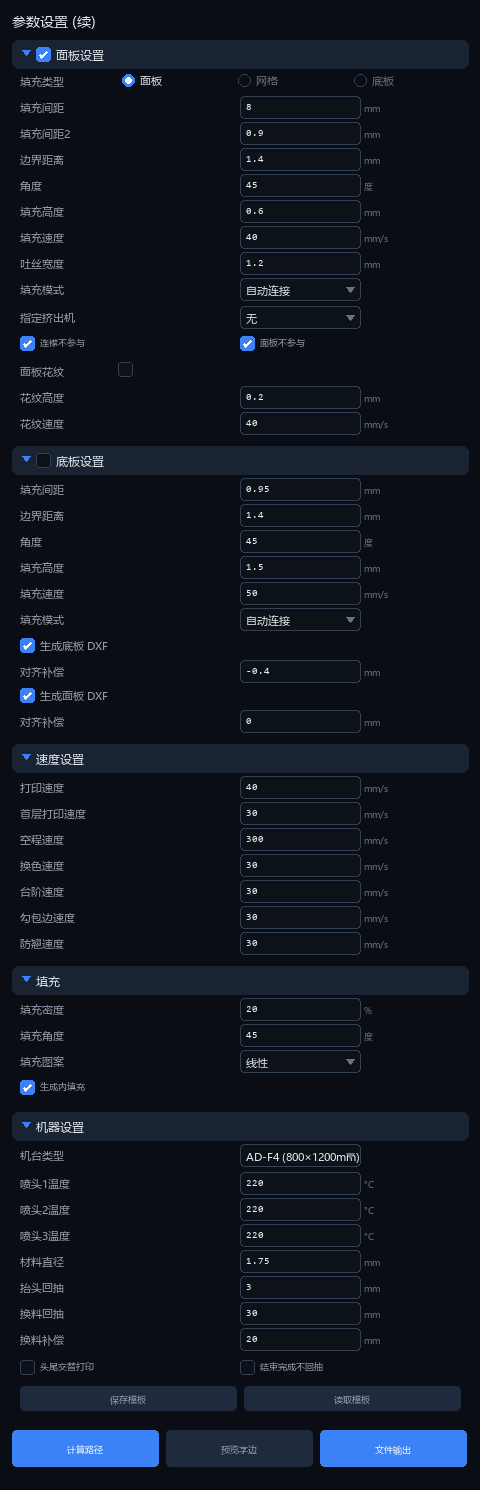
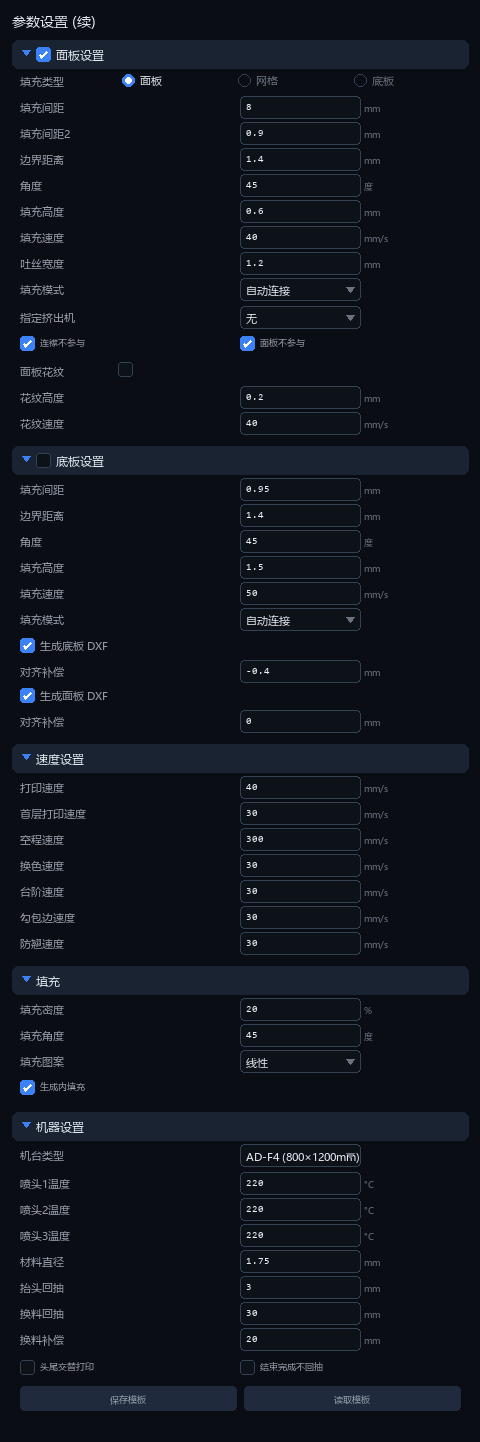
refactor: 移除UI参数图中的底部操作按钮
- 从generate_ui_params.py中删除底部按钮生成代码
- 更新UI_Params_Part2.png图片
- 删除不再需要的UI_Params_Complete.png和UI_Params_Generated.png

Changed region(s): [[0.0, 0.0, 1.0, 0.9986], [0.25, 0.0312, 0.3438, 0.0624]]

diff --git a/scripts/generate_ui_params.py b/scripts/generate_ui_params.py
@@ -709,17 +709,6 @@ def generate_part2():
 
     renderer.add_space()
 
-    # ============================================
-    # 底部操作按钮
-    # ============================================
-    btn_gap = 8
-    btn_count = 3
-    btn_w = (renderer.content_w - btn_gap * (btn_count - 1)) // btn_count
-    renderer.draw_button(m, renderer.y, btn_w, 36, "计算路径", primary=True)
-    renderer.draw_button(m + btn_w + btn_gap, renderer.y, btn_w, 36, "预览字边")
-    renderer.draw_button(m + (btn_w + btn_gap) * 2, renderer.y, btn_w, 36, "文件输出", primary=True)
-    renderer.y += 48
-
     img = renderer.crop_to_content()
     return img
 
